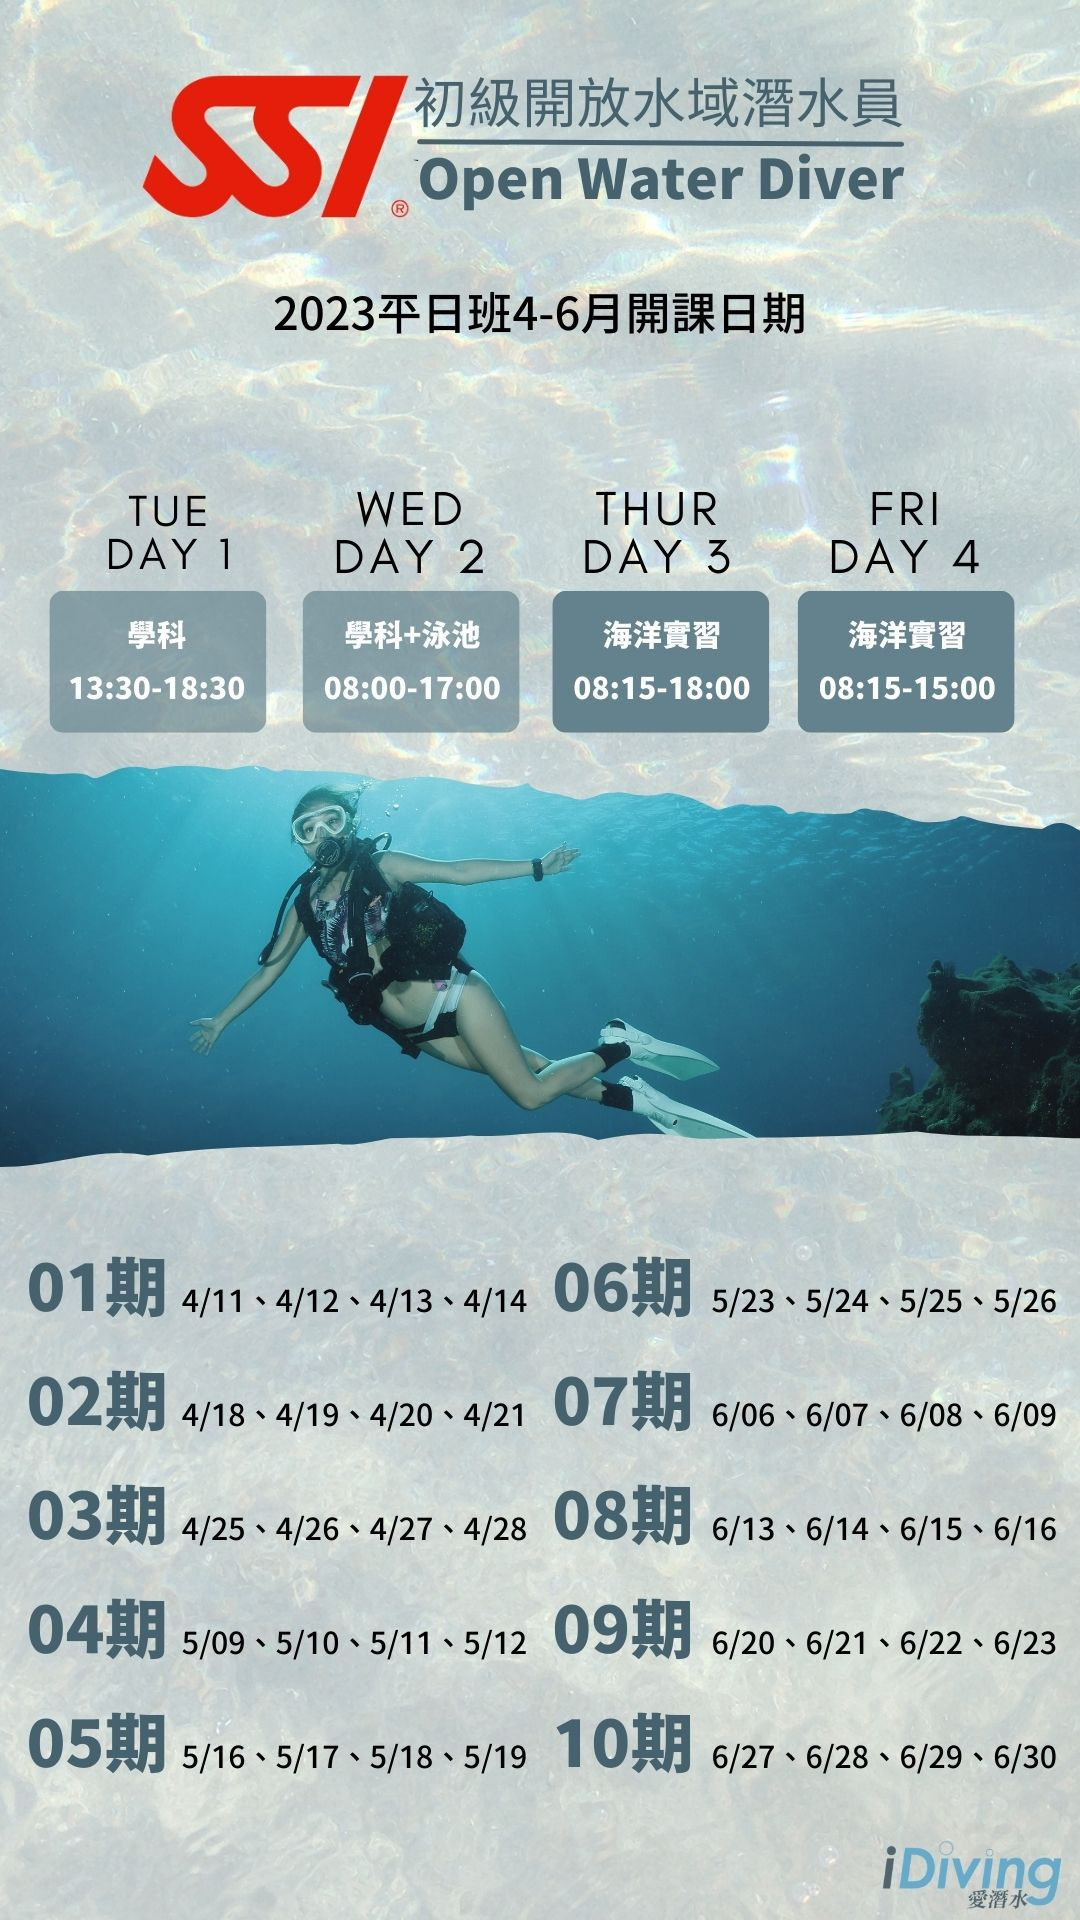
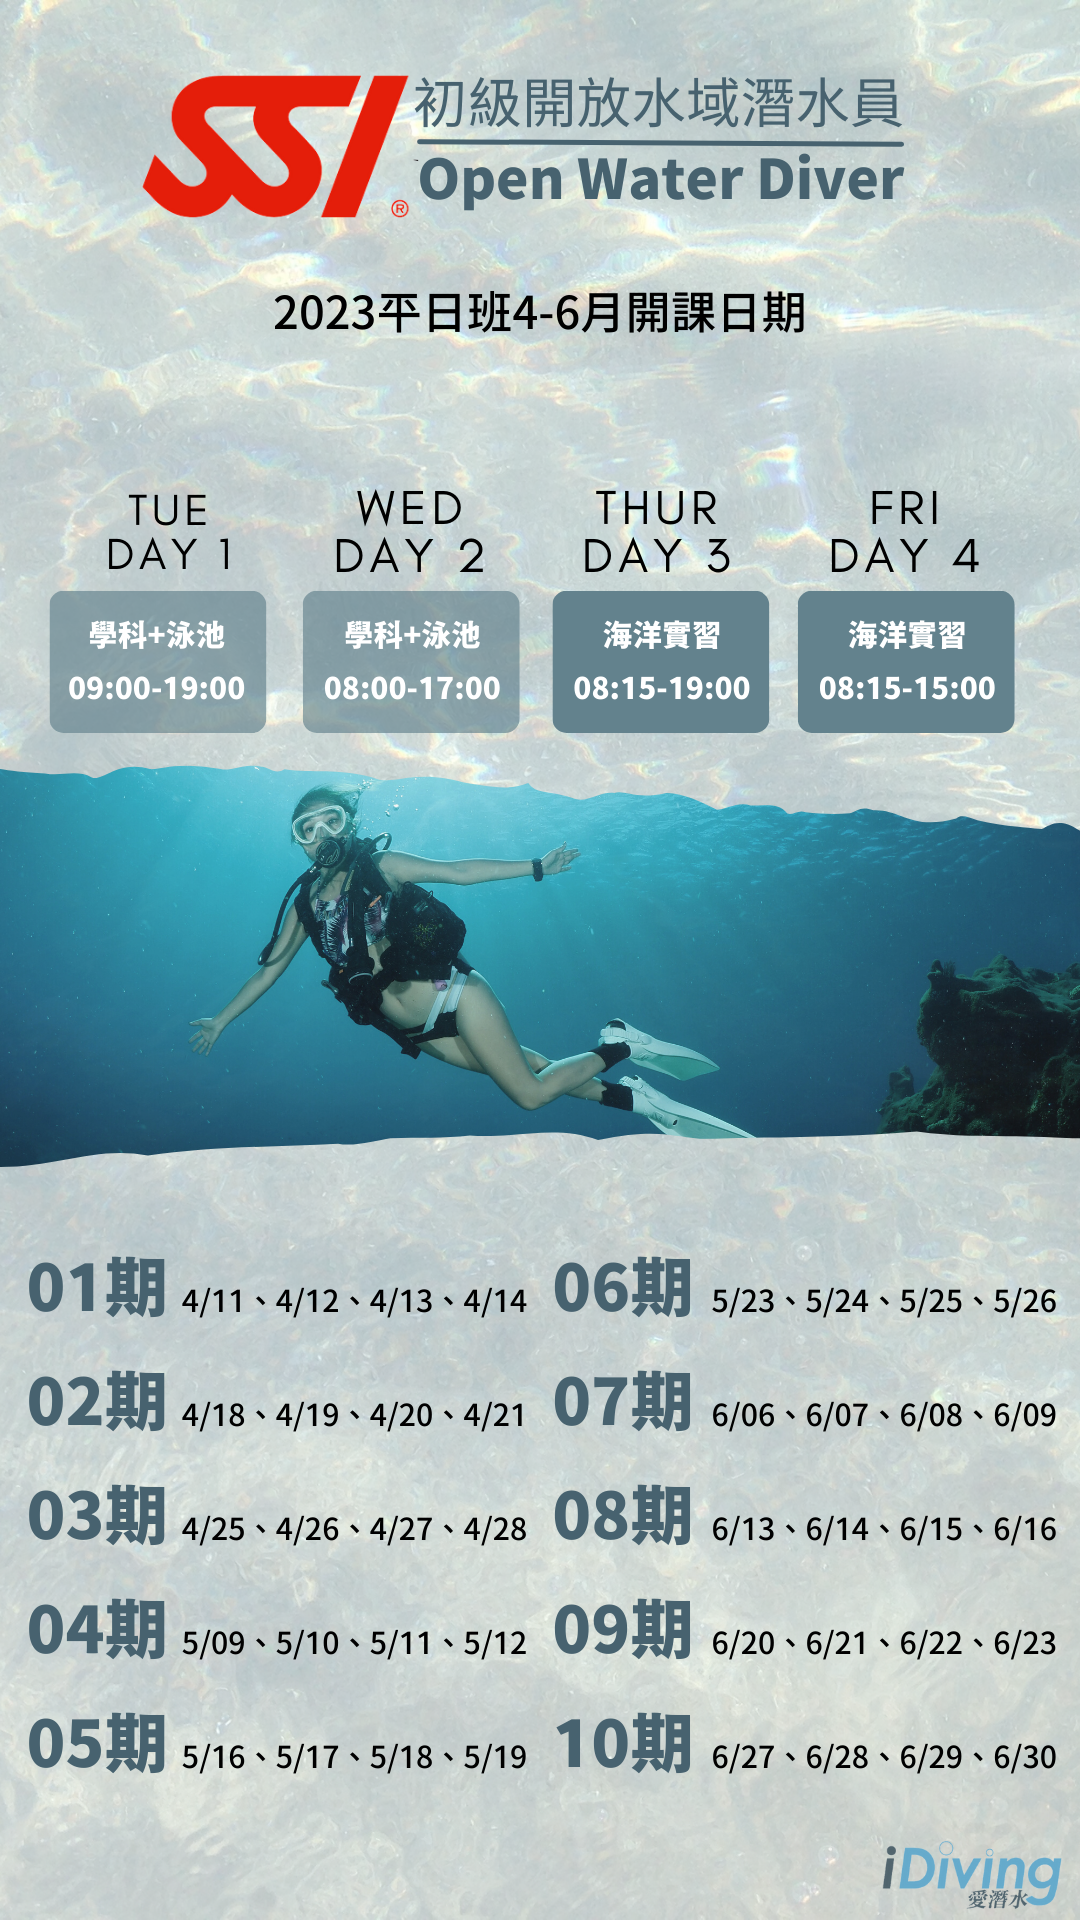
更新 OWD 假日班、平日班  [課程內容]、[課程規劃]、[課程期別] 的內容

diff --git a/src/app/pages/c120/c120.component.html b/src/app/pages/c120/c120.component.html
@@ -110,12 +110,12 @@
                     </td>
                     <td>
                       <a class="fs-6">
-                        DAY 1 | 學科 13:00~18:30<br>
+                        DAY 1 | 學科+泳池訓練 09:00~19:00<br>
                         <hr>
                         潛水物理學<br>
-                        潛水生理學<br>
                         裝備介紹與組裝練習<br>
-                        贈品套量
+                        贈品套量<br>
+                        潛水技巧練習
                       </a>
                     </td>
                   </tr>
@@ -124,9 +124,11 @@
                     </td>
                     <td>
                       <a class="fs-6">
-                        <br>DAY 2 | 泳池訓練＋學科 08:00~17:00<br>
+                        <br>
+                        DAY 2 | 學科+泳池訓練 08:00~17:00<br>
                         <hr>
-                        裝備調整<br>
+                        潛水生理學<br>
+                        海洋生物與環境<br>
                         潛水技巧練習<br>
                         狀況模擬及障礙排除
                       </a>
@@ -137,7 +139,7 @@
                     </td>
                     <td>
                       <a class="fs-6">
-                        <br>DAY 3 | 開放水域 08:15~18:00<br>
+                        <br>DAY 3 | 開放水域08:15~19:00<br>
                         <hr>
                         潛水技巧練習<br>
                         水中障礙排除<br>
@@ -151,7 +153,7 @@
                     </td>
                     <td>
                       <a class="fs-6">
-                        <br>DAY 4 | 開放水域 09:15~18:00<br>
+                        <br>DAY 4 | 開放水域 08:15~15:00<br>
                         <hr>
                         潛水技巧複習<br>
                         狀況模擬及障礙排除<br>
@@ -566,12 +568,12 @@
                     </td>
                     <td>
                       <a class="fs-6">
-                        DAY 1 | 學科 13:00~18:30<br>
+                        DAY 1 | 學科+泳池訓練 09:00~19:00<br>
                         <hr>
                         潛水物理學<br>
-                        潛水生理學<br>
                         裝備介紹與組裝練習<br>
-                        贈品套量
+                        贈品套量<br>
+                        潛水技巧練習
                       </a>
                     </td>
                   </tr>
@@ -580,9 +582,11 @@
                     </td>
                     <td>
                       <a class="fs-6">
-                        <br>DAY 2 | 泳池訓練＋學科 08:00~17:00<br>
+                        <br>
+                        DAY 2 | 學科+泳池訓練 08:00~17:00<br>
                         <hr>
-                        裝備調整<br>
+                        潛水生理學<br>
+                        海洋生物與環境<br>
                         潛水技巧練習<br>
                         狀況模擬及障礙排除
                       </a>
@@ -593,7 +597,7 @@
                     </td>
                     <td>
                       <a class="fs-6">
-                        <br>DAY 3 | 開放水域 08:15~18:00<br>
+                        <br>DAY 3 | 開放水域08:15~19:00<br>
                         <hr>
                         潛水技巧練習<br>
                         水中障礙排除<br>
@@ -607,7 +611,7 @@
                     </td>
                     <td>
                       <a class="fs-6">
-                        <br>DAY 4 | 開放水域 09:15~18:00<br>
+                        <br>DAY 4 | 開放水域 08:15~15:00<br>
                         <hr>
                         潛水技巧複習<br>
                         狀況模擬及障礙排除<br>

diff --git a/src/app/pages/c120/c120.component.ts b/src/app/pages/c120/c120.component.ts
@@ -11,12 +11,14 @@ export class C120Component implements OnInit {
   
   //假日班
   Weekenders = [
-    {img: '../../../../assets/Image/Data/OWD_Weekend_Schedule.png'}
+    {img: '../../../../assets/Image/Data/OWD_Weekend_Schedule.png'},
+    {img: '../../../../assets/Image/Data/OWD_Weekend_Schedule01.png'}
   ];
   
   //平日班
   Weekdays = [
     {img: '../../../../assets/Image/Data/OWD_Weekdays_Schedule.png'},
+    {img: '../../../../assets/Image/Data/OWD_Weekdays_Schedule01.png'}
   ];
 
   constructor() { }
